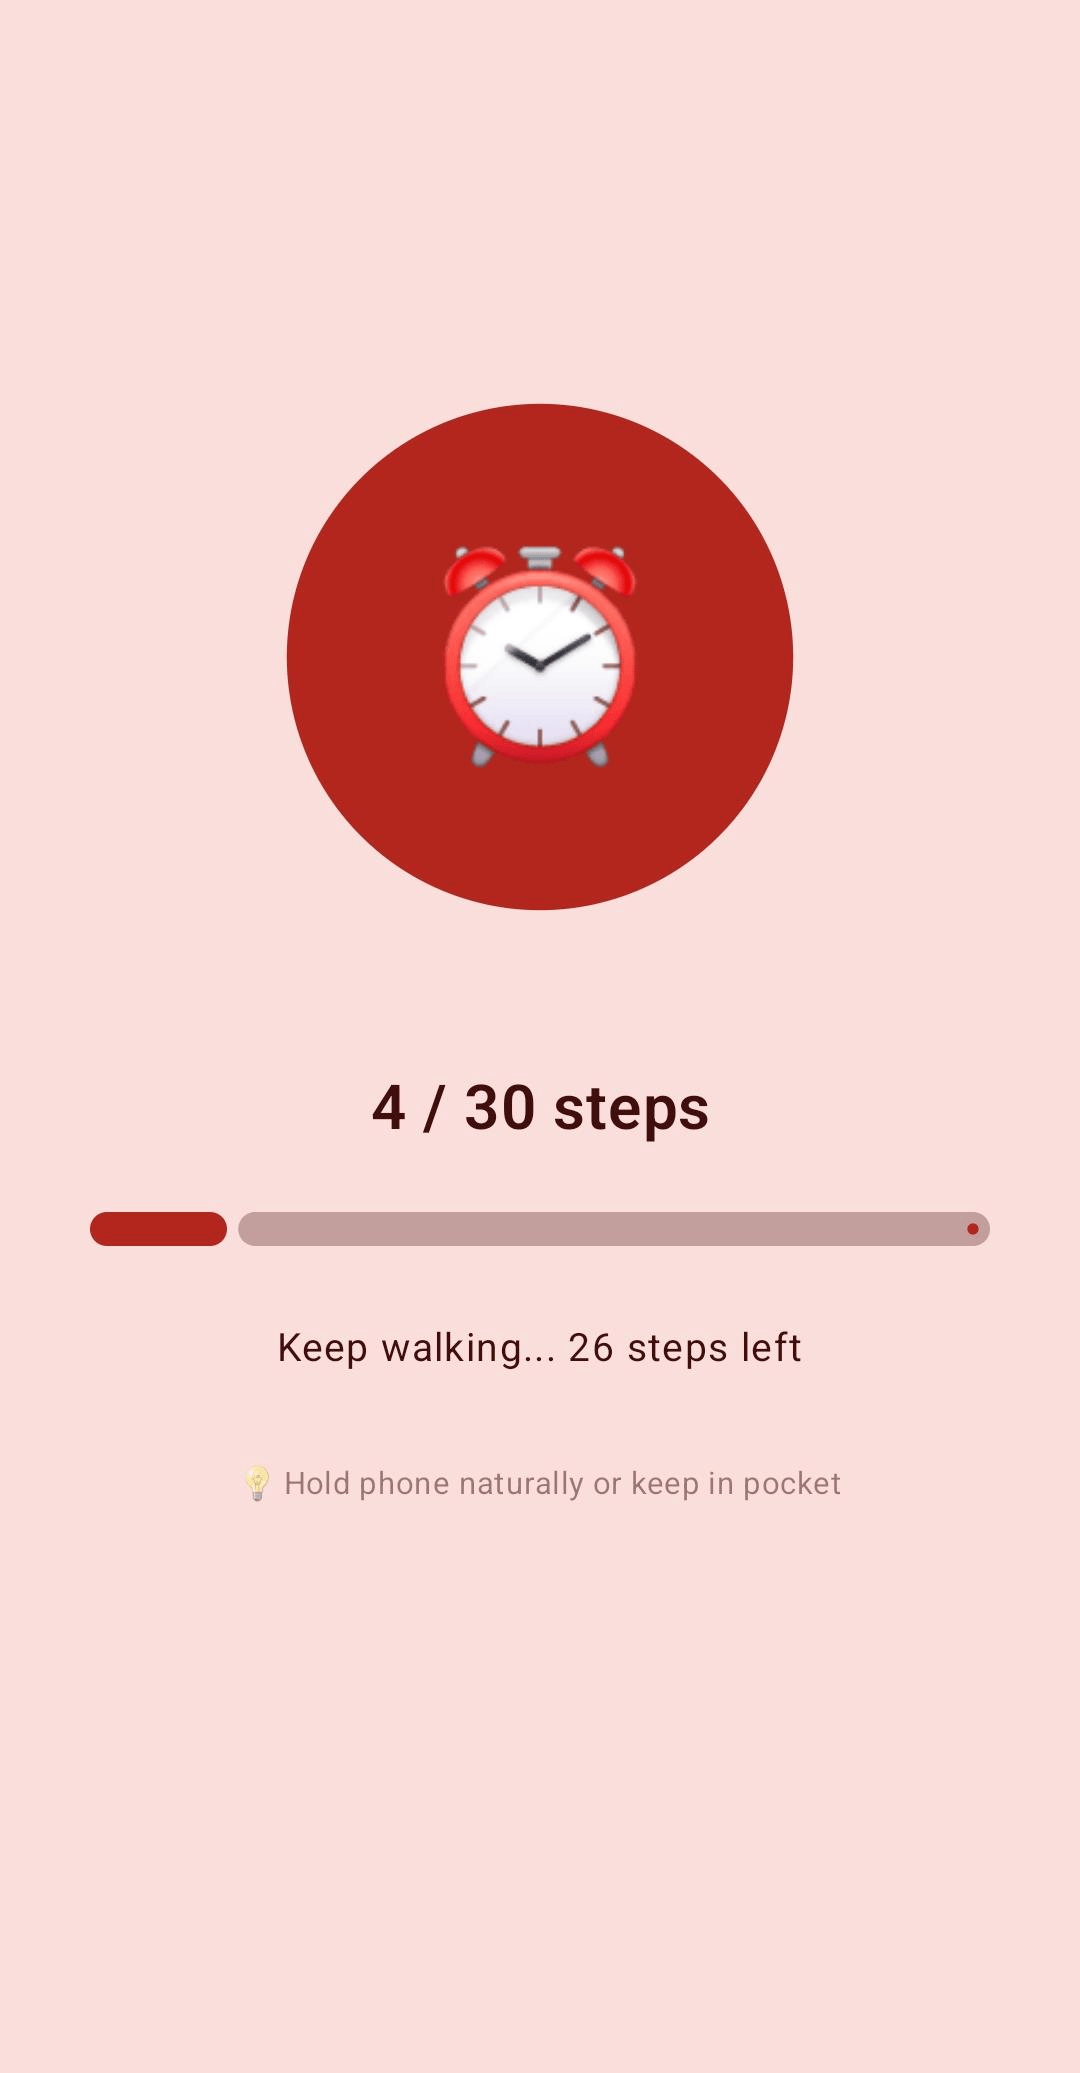
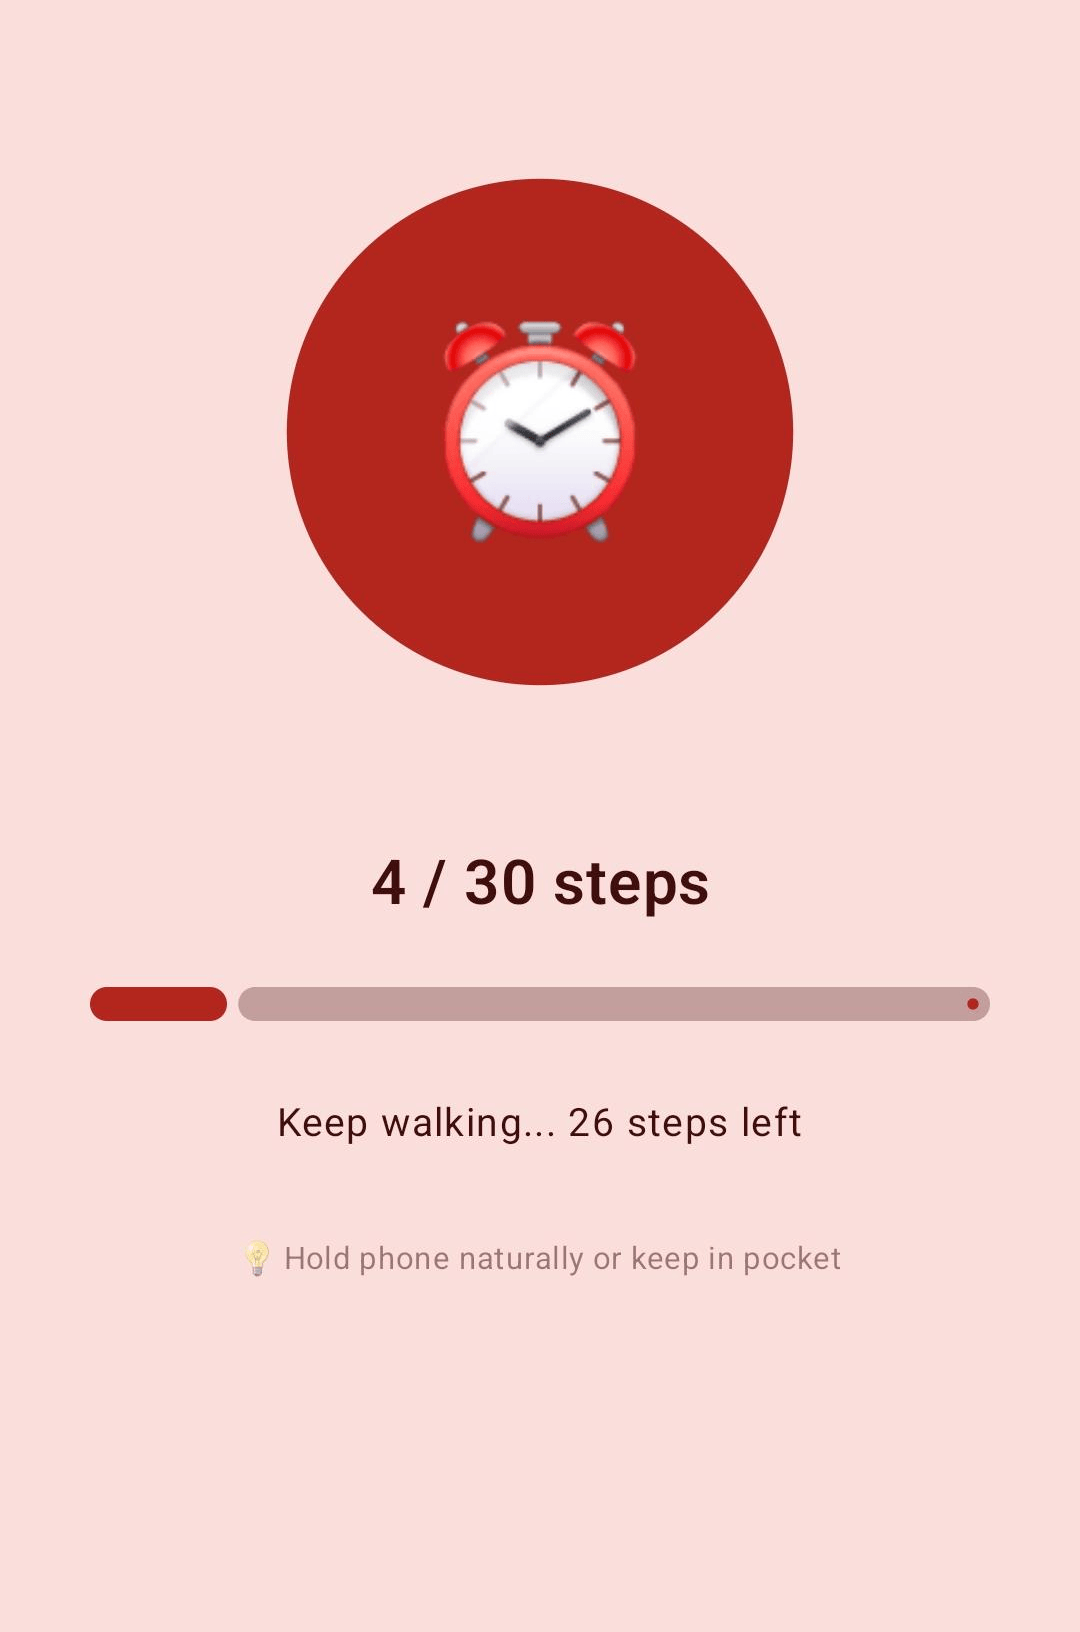
docs: add comprehensive README with features, tech stack and project structure

diff --git a/README.md b/README.md
@@ -98,6 +98,7 @@ git clone https://github.com/Akansha-08/Smart-Alarm-App.git
 
 ---
 
-## 👩💻 Developer
+## 👩💻 Author
 
-**Akansha** — B.Tech CSE @ GNDU 
+**Akansha** 
+B.Tech CSE 